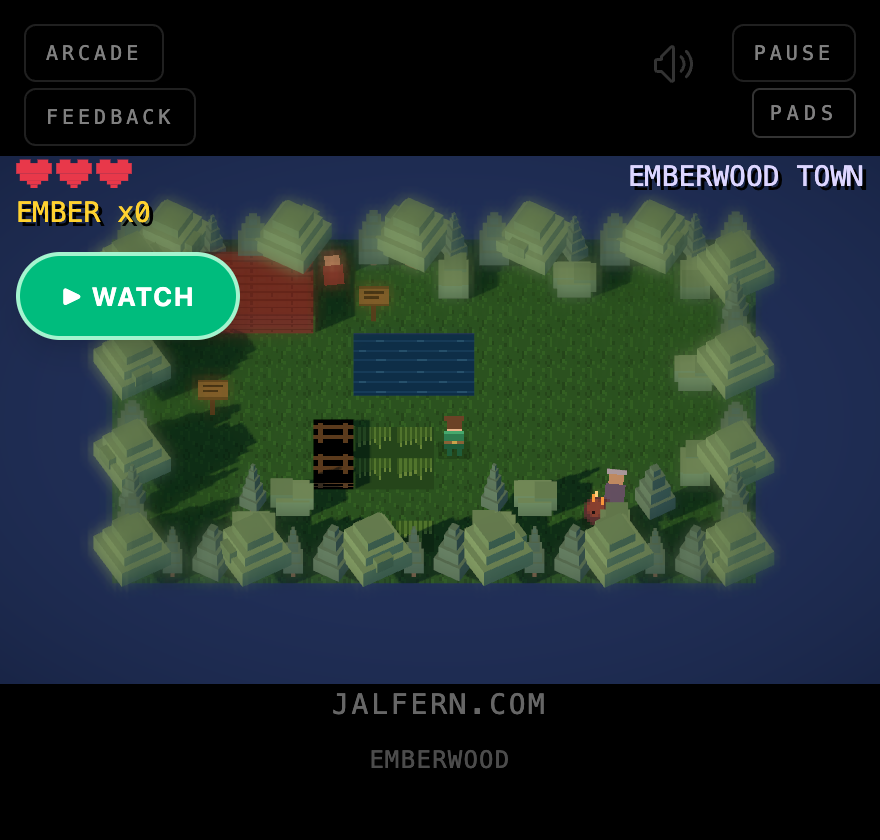
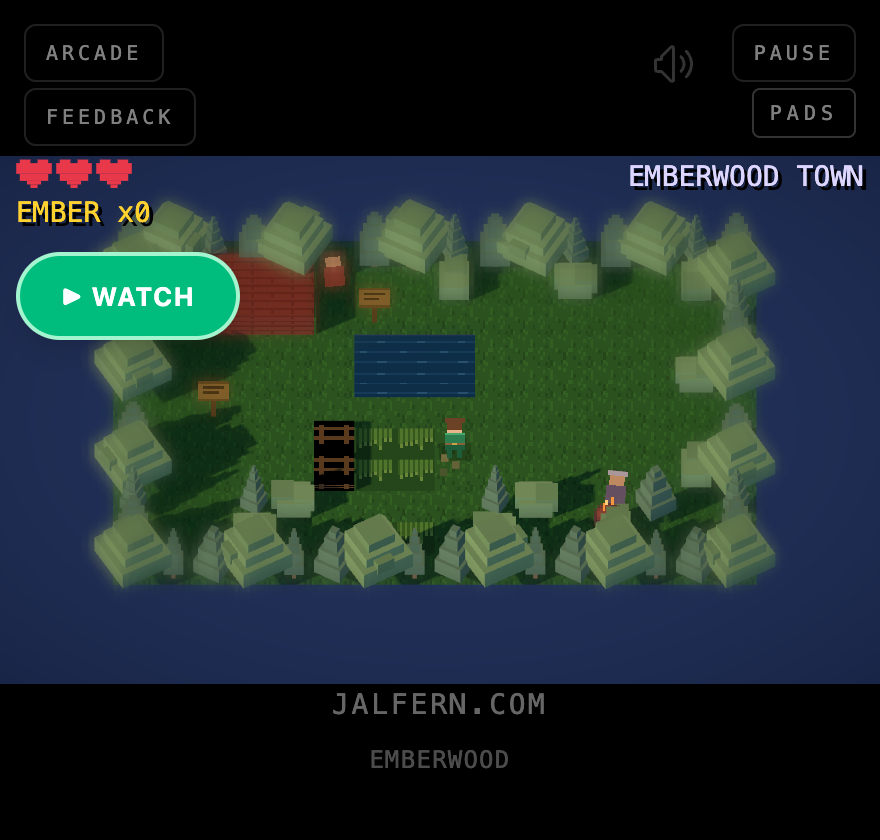
art(emberwood): attract copy in a bounded region ABOVE the gated WATCH pill
watchphonecheck pins the attract pill at bottom 24% / z-70 — keep the
pre-existing structure, but bound the story copy to the region above it
(bottom 24%) instead of justify-centering it in the full canvas, where the
story line + PRESS ANY KEY + Y-line stacked onto the pill and spilled off
the canvas. Copy title shrinks (leading-none), story line word-wraps (92%
max, text-xs, snug). In-game HUD/WATCH positions unchanged.

diff --git a/src/games/Emberwood/index.jsx b/src/games/Emberwood/index.jsx
@@ -593,14 +593,21 @@ export default function Emberwood() {
                     </div>
                 </div>
             )}
+            {/* #1656 — the forgotten-how-to-play tap: start AND watch, one button.
+                Absolutely pinned in the pad-clear band (bottom 24%) so it can never
+                be overlapped by the story copy, which lives above it (#3933). */}
             {screen === 'attract' && (
-                <div className="absolute inset-0 flex flex-col items-center justify-center pointer-events-none font-mono px-4" style={{ textShadow: '3px 3px 0 #000' }}>
-                    <div className="text-amber-300 text-4xl sm:text-5xl font-bold tracking-widest mb-1">EMBERWOOD</div>
-                    <div className="text-violet-300 text-sm tracking-widest mb-5">THE CINDER VALE</div>
+                <div className="absolute inset-x-0 z-[70] flex justify-center pointer-events-none" style={{ bottom: '24%' }}>
+                    <AttractWatchButton />
+                </div>
+            )}
+            {screen === 'attract' && (
+                <div className="absolute inset-x-0 top-0 flex flex-col items-center justify-center pointer-events-none font-mono px-4" style={{ bottom: '24%', textShadow: '3px 3px 0 #000' }}>
+                    <div className="text-amber-300 text-4xl sm:text-5xl font-bold tracking-widest mb-1 leading-none">EMBERWOOD</div>
+                    <div className="text-violet-300 text-sm tracking-widest mb-4">THE CINDER VALE</div>
                     <div className="w-full max-w-[92%] text-center text-emerald-200 text-xs leading-snug font-bold">{line}</div>
                     <div className="text-white/80 text-sm mt-4 animate-pulse">PRESS ANY KEY OR TAP TO BEGIN</div>
                     <div className="text-stone-400 text-xs mt-2">Y — watch the proven route</div>
-                    <div className="mt-4 pointer-events-auto"><AttractWatchButton /></div>
                     {/* #965: phones have no third pad button and tap-to-start means
                         "new journey" — the save needs its own tappable affordance
                         here, or a phone can never continue. The tap dispatches the
